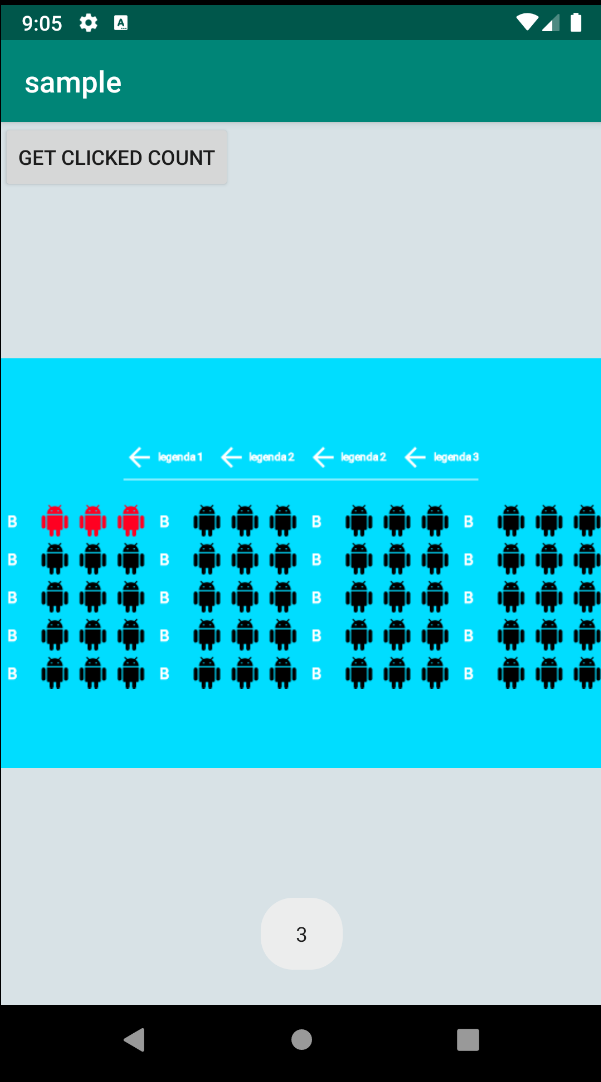
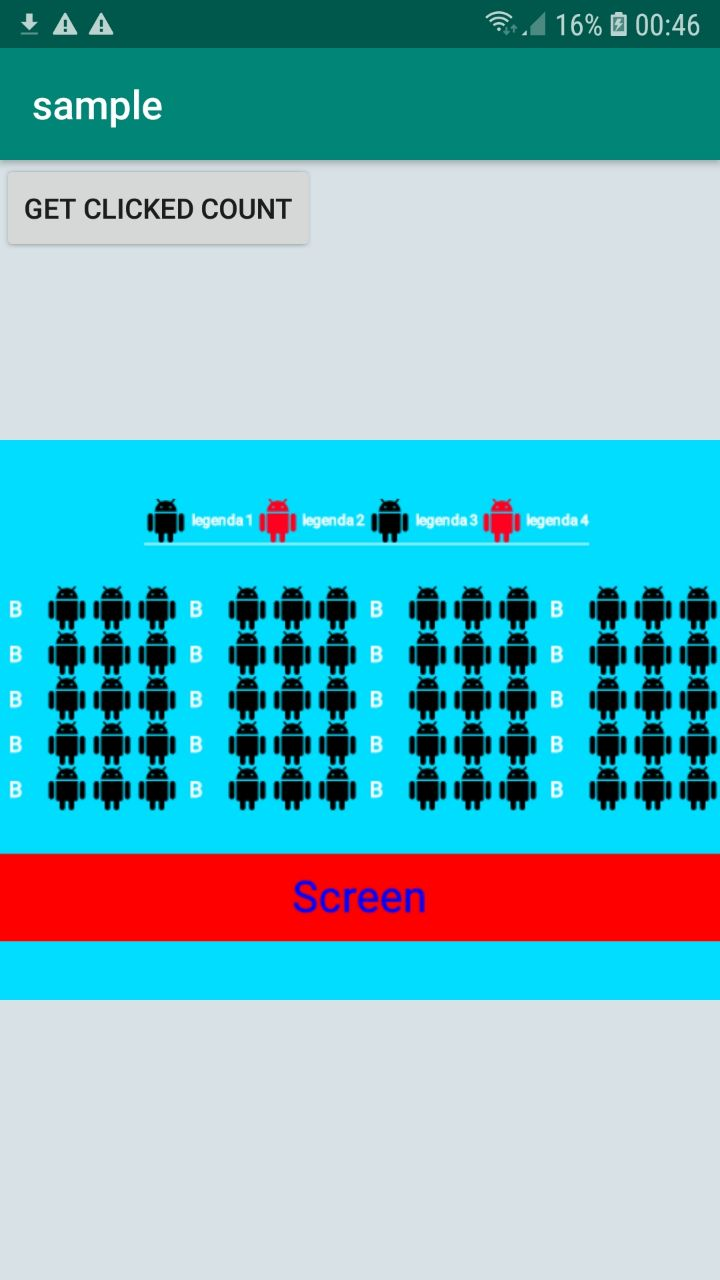
change result screenshot

diff --git a/app/src/main/java/com/itrocket/sample/MainActivity.kt b/app/src/main/java/com/itrocket/sample/MainActivity.kt
@@ -32,7 +32,7 @@ class MainActivity : AppCompatActivity() {
                 seatValidationRules(seat, seats) //set validation rules for click on seats
             },
             seatGap = 1, //seat gap between chairs
-            screen = Screen(Color.RED, Color.BLUE, 30f, "Screen")
+            screen = Screen(Color.RED, Color.BLUE, 30f, "Screen") //add screen
         )
     }
 
